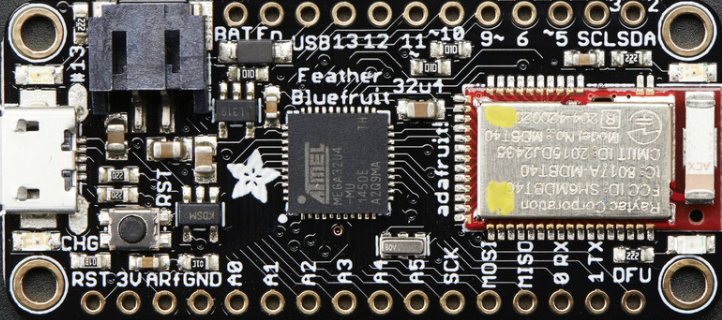
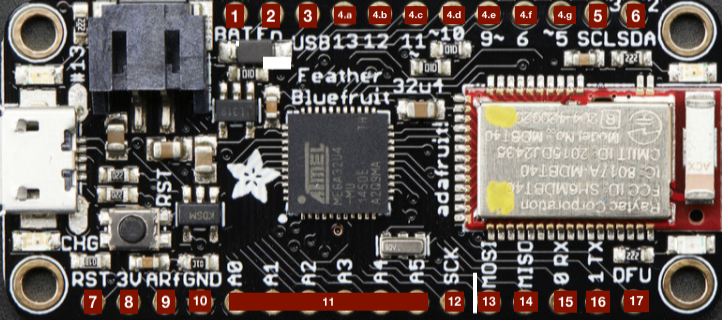
Finished Pinout for Feather, and added technical details

diff --git a/examples/bluetooth/feather.md b/examples/bluetooth/feather.md
@@ -18,3 +18,47 @@ A wireless personal area network (WPAN) is a PAN carried over a low-powered, sho
 The Adafruit Feather 32u4 Bluefruit is an 'all-in-one' Arduino-compatible + Bluetooth Low Energy(BLTE) board with built in USB and battery charging. It's an Adafruit Feather 32u4 with a BTLE module.
 
 ![](1.png)
+
+##### Pins
+1. **BAT** - positive voltage to/from JST jack for optional Li-Po battery;
+2. **EN** - 3.3V regulator's enable pin. has pull up, connect to ground to disable regulator;
+3. **USB** - Positive voltage to/from microUSB jack, if connected;
+4. **Pins 13-5**
+    * **.a** - GP(General Purpose)I/O 13, can do PWM output, is connected to red LED next to USB port;
+    * **.b** - GP I/O 12, also analog input A11;
+    * **.c** - GP I/O 11, can do PWM output;
+    * **.d** - GP I/O 10, can do PWM output and can also be analog input A10;
+    * **.e** - GP I/O 9, can do PWM output and can also be analog input A9, analog input is connected to a  voltage divider for Li-Po battery, so naturally 'sits' at 2V DC due to the resistor divider;
+    * **.f** - GP I/O 6, can do PWM output and can also be analog input A7;
+    * **.g** - GP I/O 5, can also do PWM output;
+5. **SCL** - GP I/O 3, can do PWM output , and act as interrupt 0. Also the I2C clock pin, has no pullup by default, so when using I2C, may need 2.2-10kΩ pullup;
+6. **SDA** -  GP I/O 2, can do PWM output , and act as interrupt 1. Also the I2C data pin, has no pullup by default, so when using I2C, may need 2.2-10kΩ pullup;
+7. **RST** - Reset pin, can be tied to ground to manually reset the AVR, as well as launch the bootloader manually;
+8. **3V** - Output from 3.3V regulator, supplies 500mA at peak;
+9. **ARf** - ARef, the analog reference pin. Normally the reference voltage is the same as the chip logic voltage (3.3V). If an alternative analog reference is needed, the pin must be connected to it, and then,  the external AREF in the firmware needs to be selected. Upper limit of (3.3V);
+10. **GND** - Common Ground for the board;
+11. **A0-A5** - Analog as well as digital I/O pins;
+12. **SCK** - SPI clock input pin, should be kept available for the bluefruit;
+13. **MOSI** - SPI Master Out - Slave In pin, should be kept available for the bluefruit, can also be used to reprogram the chip with an AVR(family of microcontrollers) programmer;
+14. **MISO** - SPI Master In - Slave Out pin, used by Bluefruit LE module, should be kept available for the bluefruit;
+15. **0 RX** - GP I/O 0, can also receive (input) pin for Serial 1, and interrupt 2;
+16. **1 TX** - GP I/O 1, can also receive (output) pin for Serial 1, and interrupt 3;
+17. **DFU** - Force-DFU (device firmware upgrade) pin for over-the-air updates to the Bluefruit module. Most likely will not be used, so, in general, keep disconnected (but it is available).
+
+##### Technical details
+The main structure of this board specifies a main processor (which is an ATmega32u4 in our case) and a co-processor module which is the red and silver rectangle, containing an nRF51 chip which can only do Bluetooth Low Energy.
+
+The nRF51 is programmed with the Bluefruit firmware, and can be controlled with AT commands over an SPI connection. When the main processor (32u4) wants to send or receive BLE(Bluetooth Low Energy) data, it sends commands to the co-processor module. However, this solution can only act as a peripheral, not as a central device, it has a  bit more power draw, does not take advantage of the newer nRF52 capabilities, and cannot use bluetooth classic.
+This board can be connected to 3.7V Li-Po batteries or the through the USB port.It will automatically switch over to USB power when its available.
+
+* ATmega32u4 processor @ 8MHz with 3.3V logic/power;
+* 3.3V regulator with 500mA peak current output;
+* USB native support, comes with USB bootloader and serial port debugging;
+* 20x GPIO pins;
+* Hardware Serial, I2C, and SPI support;
+* 7x PWM pins;
+* 10x analog inputs
+* Built in 100mA lipoly (lithium polymer) charger with charging status indicator LED;
+* Pin #13 connected to red LED for general purpose blinking;
+* Power/enable pin;
+* Reset button;
